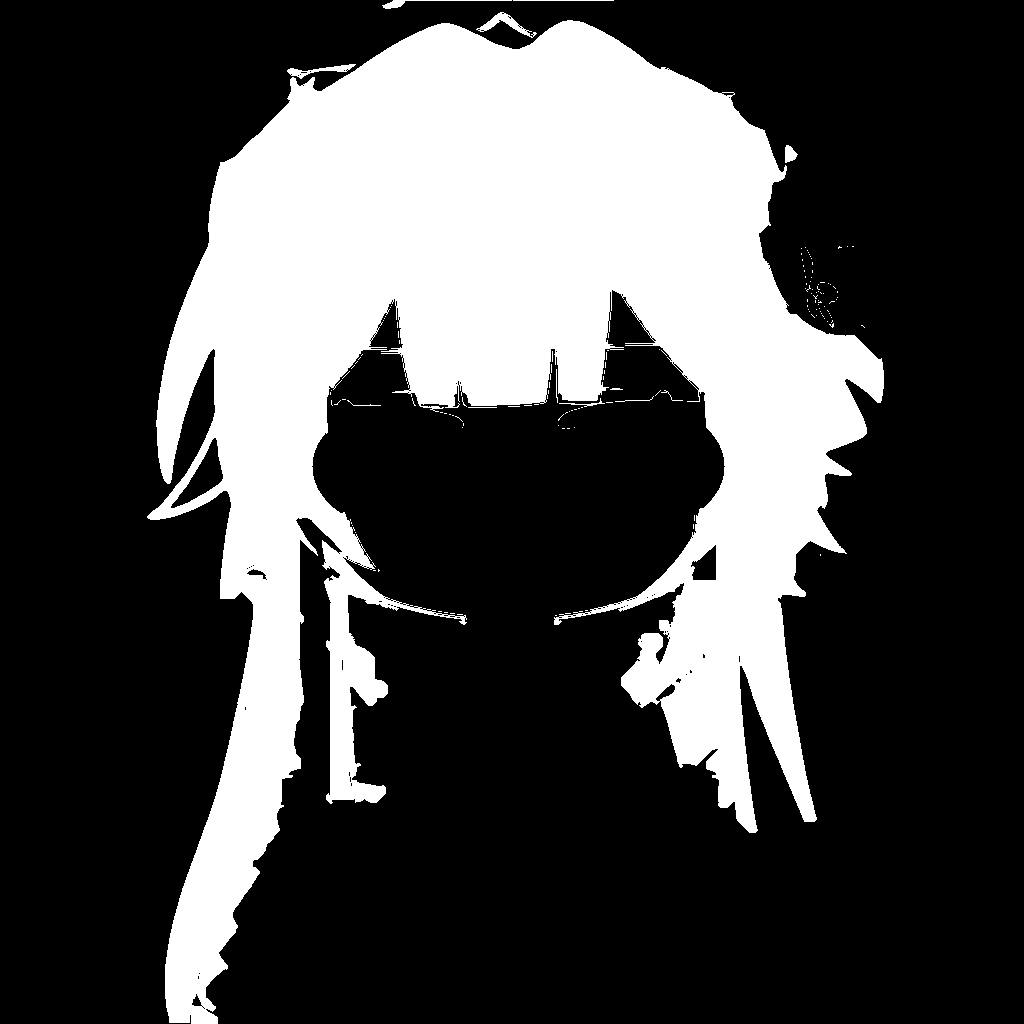
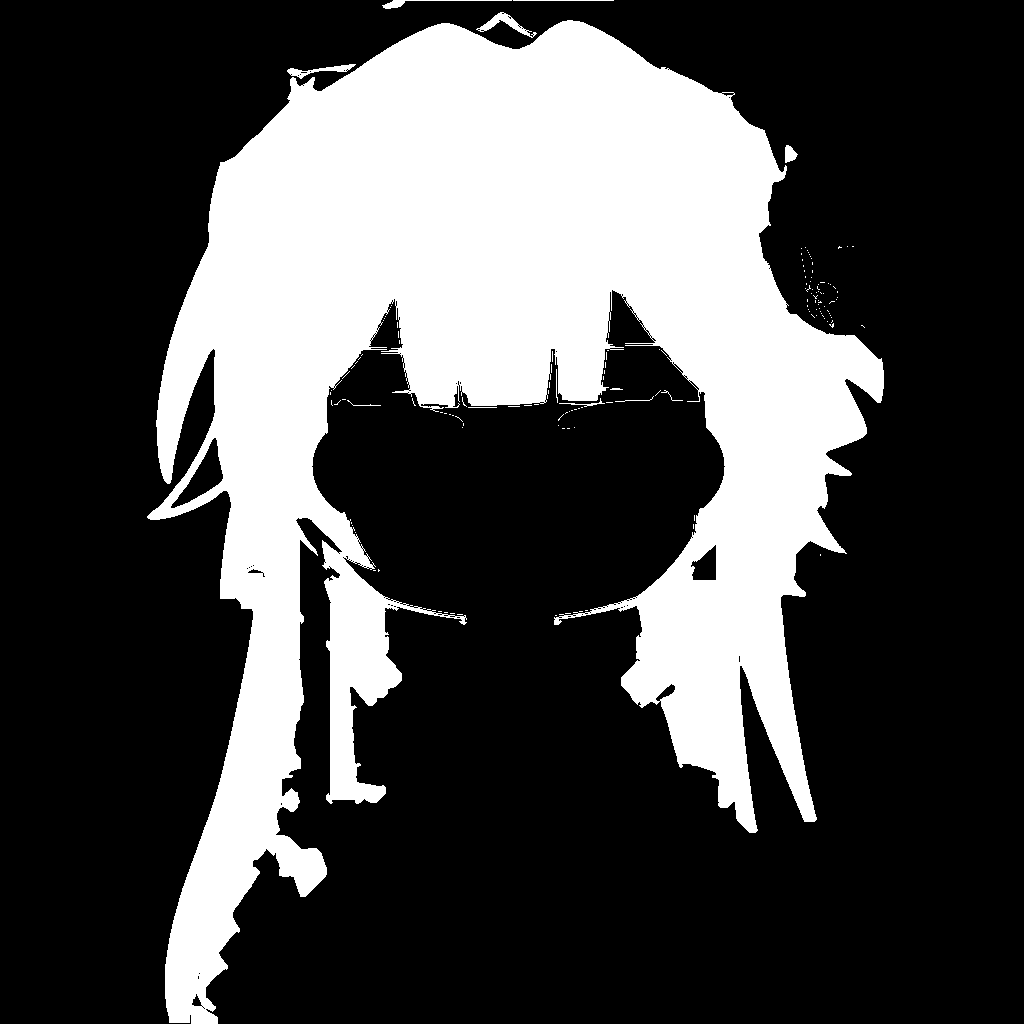
JINY 머리카락 레이어 다시 분리 — 끊긴 가닥 없이 한 장 + 부드러운 워프
앞머리·옆머리를 눈 높이 가로 직선으로 잘라 따로 움직이던 탓에, 한 가닥이던 옆머리가
둘로 끊겨 움직일 때 잘린 자리가 벌어졌다. 머리카락을 한 장으로 합치고 18×18 워프 하나로
위치마다 다르게 움직인다: 고개 돌리기 깊이는 앞머리 1.05 → 아래 0.88 로 y 를 따라 부드럽게,
흔들림은 앞머리 끝 영역과 옆머리 아래 영역에 가중치를 줘서. 몸으로 잘못 잡히던
오른쪽 긴 머리(푸르스름한 그림자)도 머리카락으로.

diff --git a/art/jiny/README.md b/art/jiny/README.md
@@ -13,10 +13,10 @@
 ## 파츠(뒤 → 앞)
 
 `hairBack` 뒷머리 바탕(머리카락 대표색 단색) · `body` 몸 · `face` 얼굴 · `eyeMask`·`iris` 흰자 클립과 홍채 · `eyesHalf`·`eyesClosed` · `mouthOpen` ·
-`blush` 볼터치(벡터) · `sideL/R` 옆머리 · `front` 앞머리 · `orn` 머리띠·꽃·리본
+`blush` 볼터치(벡터) · `hair` 앞머리·옆머리(한 장) · `orn` 머리띠·꽃·리본
 
 가려졌던 곳은 번지게 채우지 않고 `drawn/` 의 그린 그림을 쓴다 — 블러가 없다.
-고개를 돌리면 파츠마다 이동 배율이 다른 구면 회전으로 움직여 입체가 생긴다(앞머리 1.05 · 장식 1.03 · 얼굴 1 · 옆머리 0.88 · 뒷머리 0.6 — 차이를 작게 둬야 파츠가 따로 놀지 않는다). 머리카락·장식은 물리(진자)로 흔들린다.
+머리카락은 직선으로 자르지 않고 한 장으로 두고(자르면 한 가닥이 끊겨 움직일 때 벌어진다), 촘촘한 워프 하나로 위치마다 다르게 움직인다: 고개를 돌릴 때 앞머리 1.05 → 아래 머리 0.88 로 부드럽게, 앞머리 끝은 살짝·옆머리 아래쪽은 크게 흔들린다. 다른 파츠 배율: 장식 1.03 · 얼굴 1 · 뒷머리 0.6 (`parts.json` 의 `rig.layers`).
 
 ## 다시 빌드
 
